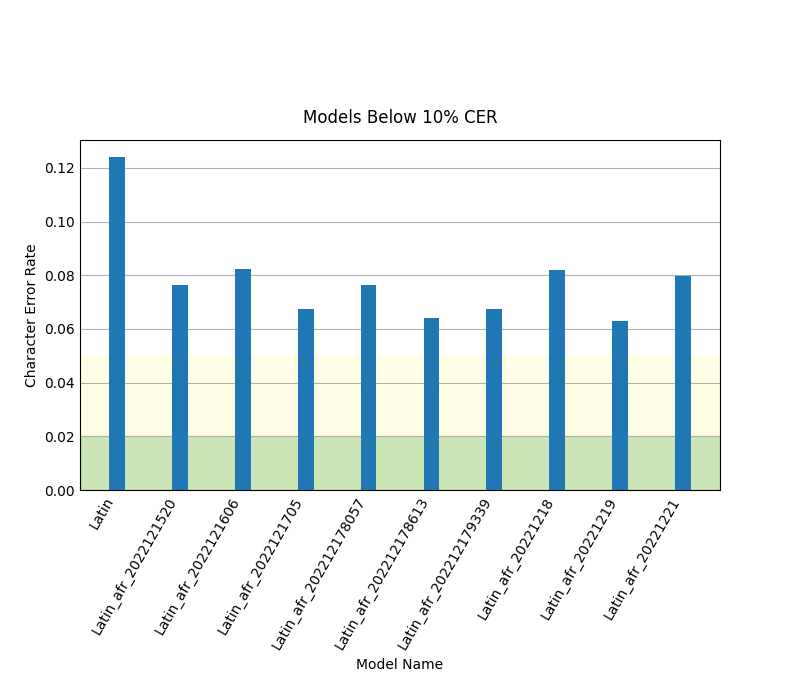
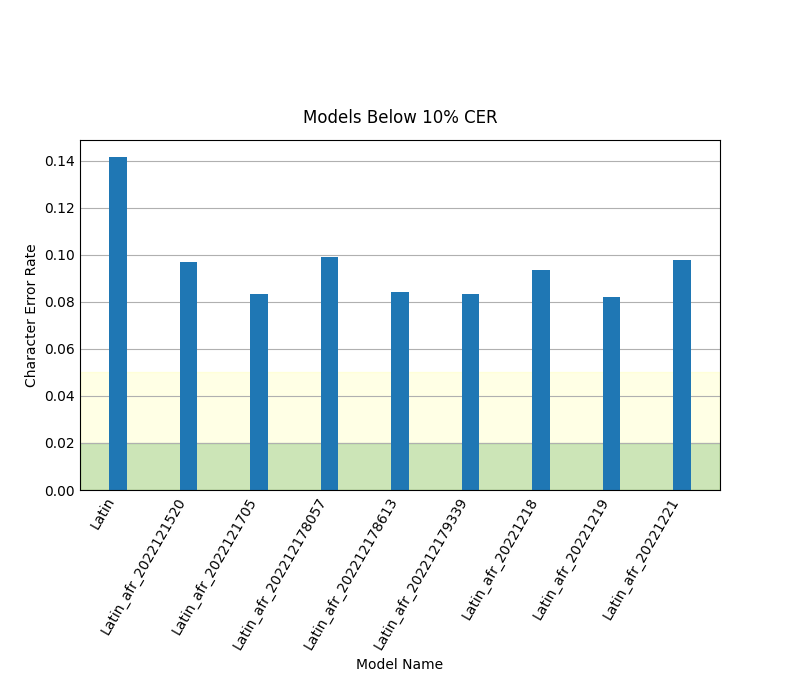
recalculate over CERs by total counts instead of avg CERs

diff --git a/scripts/show_chart.py b/scripts/show_chart.py
@@ -16,11 +16,30 @@ class GroupedData():
         self.data_ct = len(csv_data)
         self.cer_sum = None
         self.cer_avg = None
+        self.cer_group = None
+
+        self.c_sum = sum([float(d.get('hits')) for d in self.data])
+        self.d_sum = sum([float(d.get('deletions')) for d in self.data])
+        self.i_sum = sum([float(d.get('insertions')) for d in self.data])
+        self.s_sum = sum([float(d.get('substitutions')) for d in self.data])
         self.set_cer_avg()
+        self.set_group_cer()
 
     def set_cer_avg(self):
         self.cer_sum = sum([float(d.get('cer')) for d in self.data])
         self.cer_avg = round(self.cer_sum / self.data_ct, 4)
+
+    def set_group_cer(self):
+        # CER = (S + D + I) / (C + S + D)
+        self.cer_group = (
+            round(
+                float(
+                    self.s_sum + self.d_sum + self.i_sum
+                ) / float(
+                    self.c_sum + self.s_sum + self.d_sum
+                ), 4
+            )
+        )
 
 
 def get_csv_data(csv_file):
@@ -181,7 +200,7 @@ def main():
     iso_langs = list(set([r.get('iso_lang') for r in csv_data]))
     iso_langs.sort()
 
-    # model_data is a list of model GroupedData objects.
+    # model_data is a list of GroupedData objects of models.
     model_data = [GroupedData(m, [r for r in csv_data if r.get('model') == m]) for m in model_names]
 
     # lang_data is a list of iso_lang GroupedData objects.
@@ -215,7 +234,7 @@ def main():
             for m in model_data:
                 if m.name == best_model[0]:
                     for l in m.lang_data:
-                        cer_values.append(l.cer_avg)
+                        cer_values.append(l.cer_group)
                         lang_names_filtered.append(l.name)
                     break
 
@@ -241,7 +260,7 @@ def main():
             for m in model_data:
                 if m.name == model_name:
                     for l in m.lang_data:
-                        cer_values.append(l.cer_avg)
+                        cer_values.append(l.cer_group)
                         lang_names_filtered.append(l.name)
                     break
 
@@ -262,10 +281,12 @@ def main():
         # Print data table to stdout.
         print(f"Model Name\tCER")
         for m in model_data:
-            print(f"{m.name}\t{m.cer_avg}\t{round(m.cer_sum, 4)}/{m.data_ct}")
+            # print(f"{m.name}\t{m.cer_avg}\t{round(m.cer_sum, 4)}/{m.data_ct}")
+            print(f"{m.name}\t{m.cer_group}")
 
         # Get CER averages by model.
-        cer_values = [m.cer_avg for m in model_data]
+        # cer_values = [m.cer_avg for m in model_data]
+        cer_values = [m.cer_group for m in model_data]
 
         # Remove models whose CERs are greater than cer_limit.
         cer_limit = 0.1
